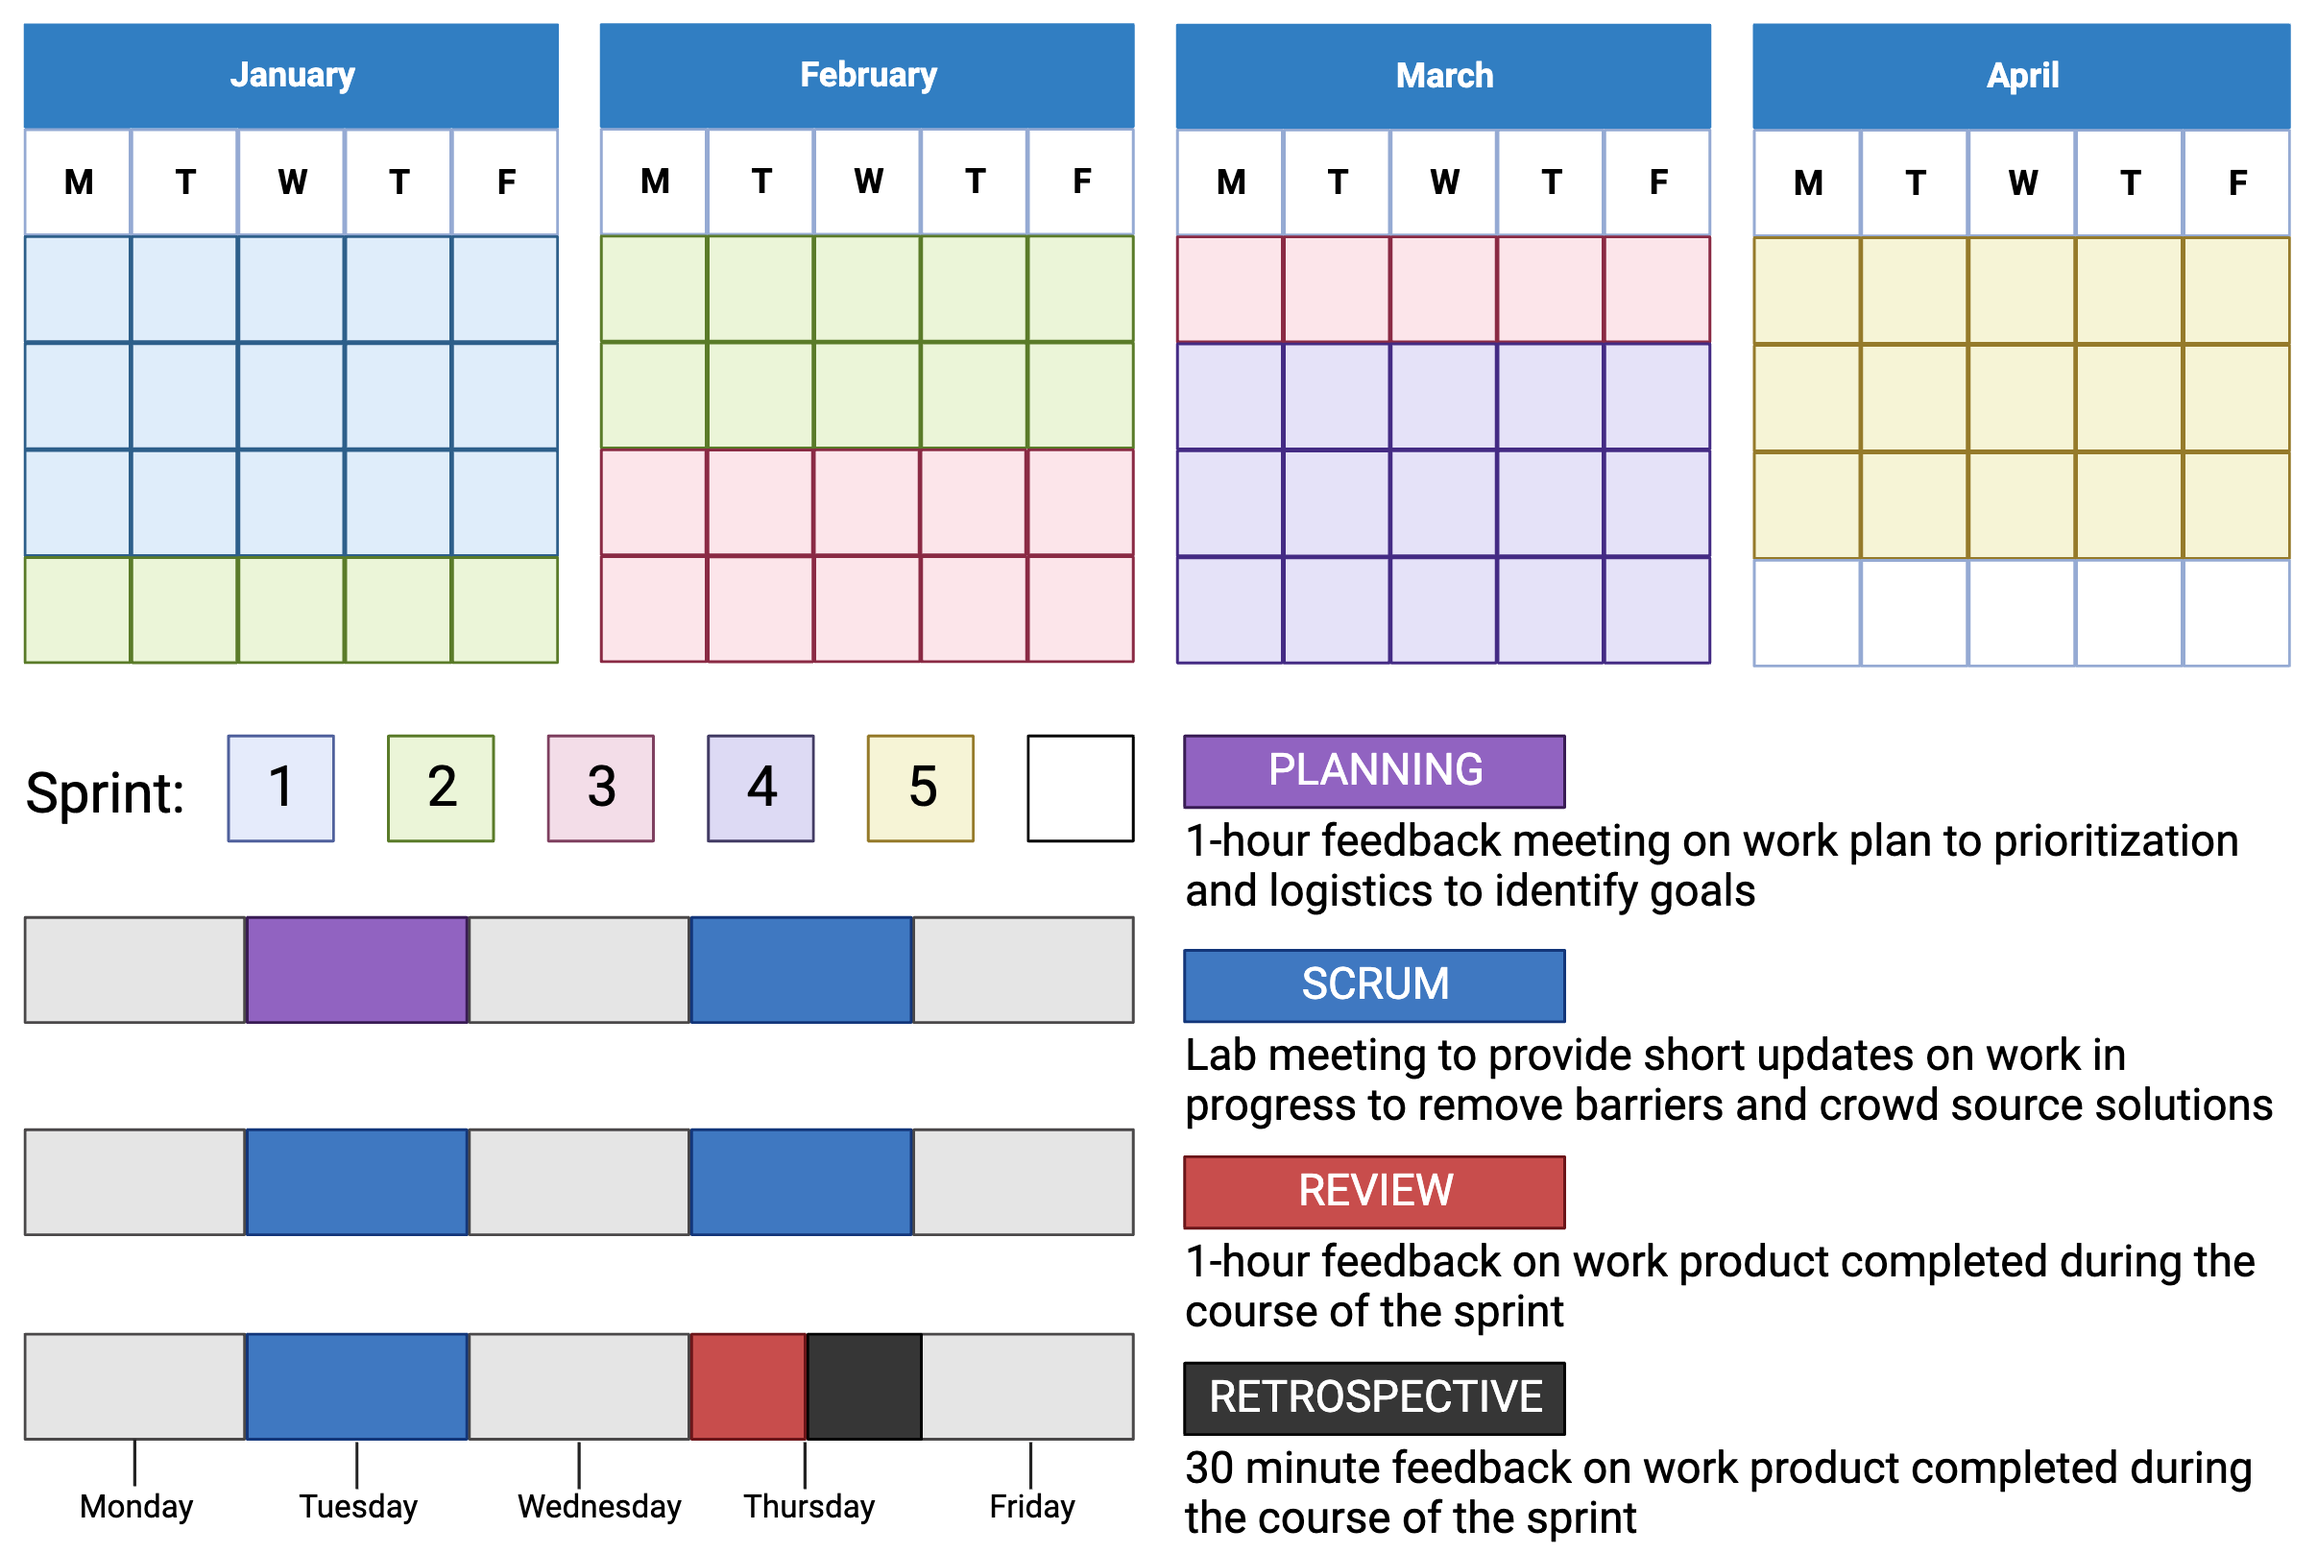
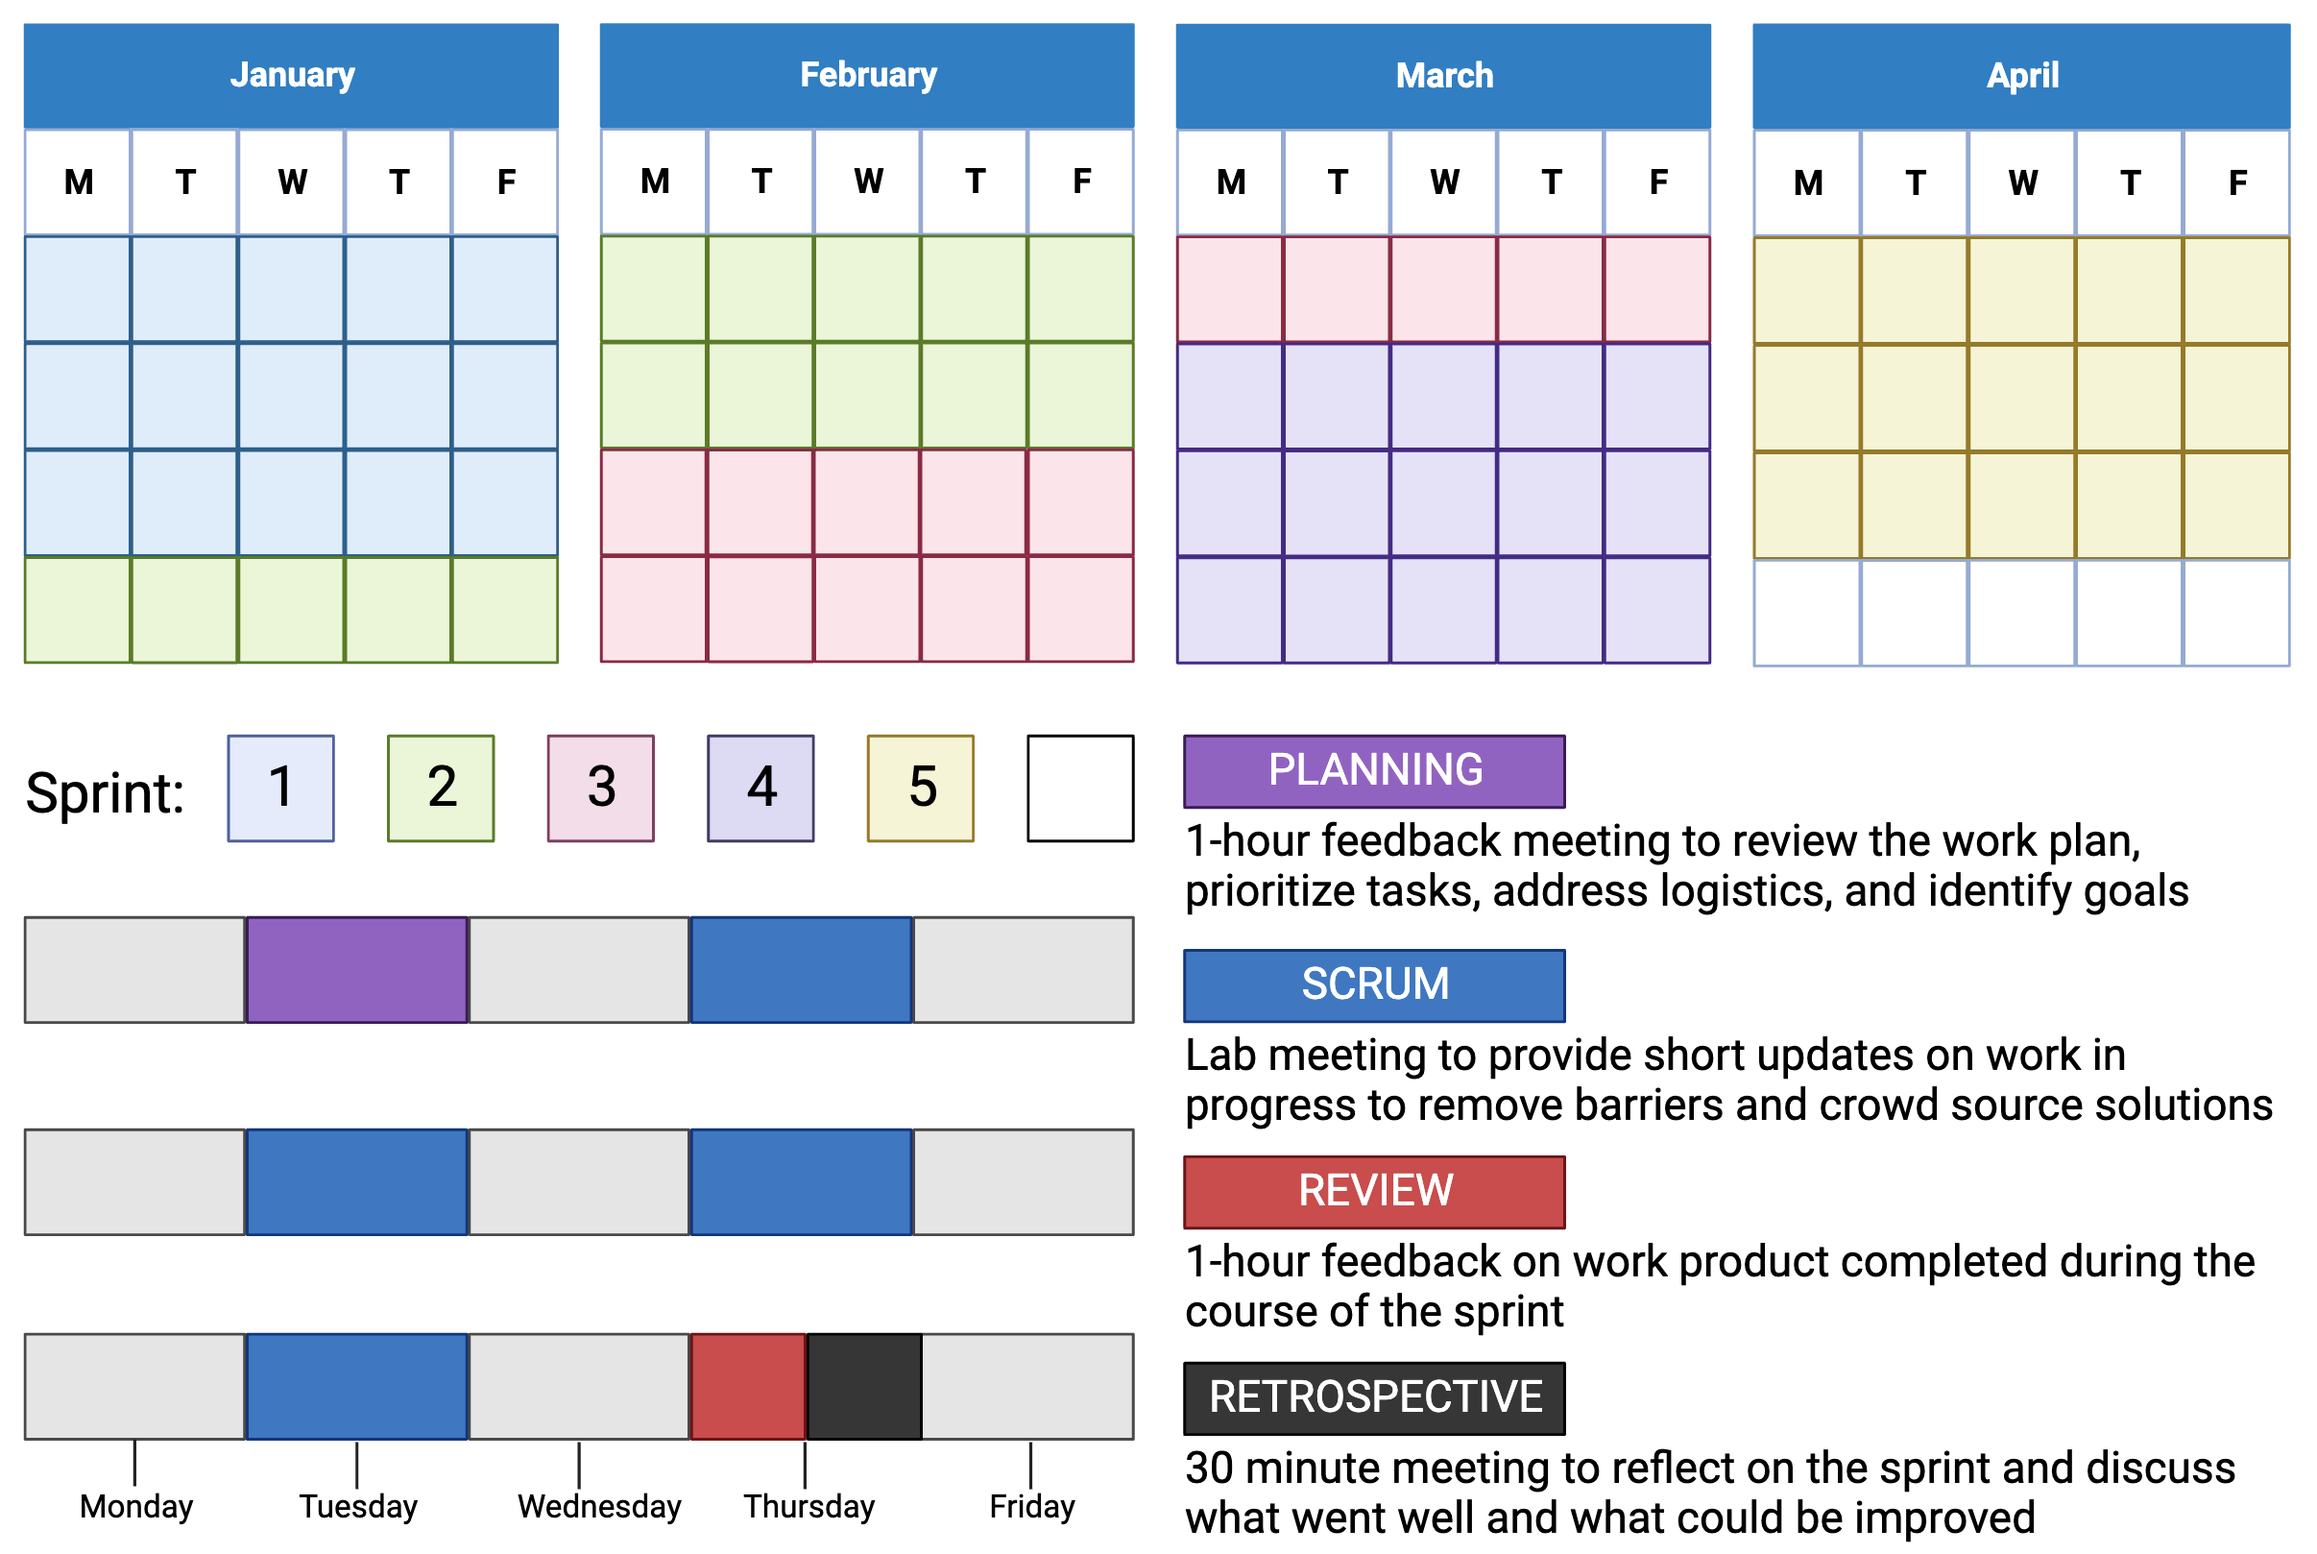
LabScrum sprint cycle

Changed region(s): [[0.4973, 0.9271, 0.9635, 0.9889], [0.4973, 0.5253, 0.9635, 0.5871]]

diff --git a/docs/scripts/labscrum.html b/docs/scripts/labscrum.html
@@ -212,7 +212,14 @@ ul.task-list li input[type="checkbox"] {
     <h2 id="toc-title">Table of contents</h2>
    
   <ul>
-  <li><a href="#references" id="toc-references" class="nav-link active" data-scroll-target="#references">References</a></li>
+  <li><a href="#labscrum-sprint-cycle" id="toc-labscrum-sprint-cycle" class="nav-link active" data-scroll-target="#labscrum-sprint-cycle">LabScrum sprint cycle</a>
+  <ul class="collapse">
+  <li><a href="#sprint-planning" id="toc-sprint-planning" class="nav-link" data-scroll-target="#sprint-planning">Sprint Planning</a></li>
+  <li><a href="#scrum-meetings" id="toc-scrum-meetings" class="nav-link" data-scroll-target="#scrum-meetings">Scrum meetings</a></li>
+  <li><a href="#sprint-review" id="toc-sprint-review" class="nav-link" data-scroll-target="#sprint-review">Sprint Review</a></li>
+  <li><a href="#sprint-retrospective" id="toc-sprint-retrospective" class="nav-link" data-scroll-target="#sprint-retrospective">Sprint Retrospective</a></li>
+  </ul></li>
+  <li><a href="#further-reading" id="toc-further-reading" class="nav-link" data-scroll-target="#further-reading">Further reading</a></li>
   </ul>
 </nav>
     </div>
@@ -236,20 +243,80 @@ ul.task-list li input[type="checkbox"] {
 
 </header>
 
+<p>LabScrum adapts the Scrum framework from software development for research laboratories. It applies agile principles to scientific research to improve collaboration and streamline workflows. Research projects are divided into “sprints” with regular communication through stand-ups and retrospectives. This approach helps teams adapt to changes and work efficiently.</p>
+<section id="labscrum-sprint-cycle" class="level2">
+<h2 class="anchored" data-anchor-id="labscrum-sprint-cycle">LabScrum sprint cycle</h2>
+<p>Our LabSrum framework is as follows. Every quarter, we identify key milestones. These encompass tasks with firm deadlines like grant applications, progress reports, conference abstracts, and presentations, as well as those with flexible deadlines, such as paper submissions. The quarter is divided into five sprints, each spanning three weeks, with an additional free week. Each sprint involves a planning meeting, four scrum meetings, a review, and a retrospective. Meetings are scheduled on Tuesdays and Thursdays.</p>
 <div class="quarto-figure quarto-figure-center">
 <figure class="figure">
 <p><img src="../images/LabScrum.png" class="img-fluid figure-img"></p>
-<figcaption class="figure-caption">LabScrum</figcaption>
+<figcaption class="figure-caption">LabScrum Outline</figcaption>
 </figure>
 </div>
-<section id="references" class="level2">
-<h2 class="anchored" data-anchor-id="references">References</h2>
+<div class="callout callout-style-default callout-note callout-titled">
+<div class="callout-header d-flex align-content-center">
+<div class="callout-icon-container">
+<i class="callout-icon"></i>
+</div>
+<div class="callout-title-container flex-fill">
+Note
+</div>
+</div>
+<div class="callout-body-container callout-body">
+<p>This is our initial attempt at implementing LabScrum for project management, and we anticipate making revisions to better suit the lab’s needs</p>
+</div>
+</div>
+<section id="sprint-planning" class="level3">
+<h3 class="anchored" data-anchor-id="sprint-planning">Sprint Planning</h3>
+<p>The objective of the planning meeting is to establish concrete, measurable sprint goals for each team member. Every member should arrive at the meeting with a preliminary sprint plan detailing their overarching goals and the associated subtasks to be accomplished by the sprint’s conclusion. This plan is then adjusted based on feedback regarding prioritization and logistics. The sprint goals should align with upcoming quarterly milestones, ensuring they contribute to the lab’s long-term research objectives. Employing SMART goals ensures the sprint goals are feasible within the sprint’s timeframe.</p>
+<div class="callout callout-style-default callout-tip callout-titled">
+<div class="callout-header d-flex align-content-center">
+<div class="callout-icon-container">
+<i class="callout-icon"></i>
+</div>
+<div class="callout-title-container flex-fill">
+Tip
+</div>
+</div>
+<div class="callout-body-container callout-body">
+<p><a href="https://www.atlassian.com/blog/productivity/how-to-write-smart-goals">SMART Goals</a> are <strong>S</strong>pecific <strong>M</strong>easurable <strong>A</strong>chievable <strong>R</strong>elevant <strong>T</strong>ime-Bound.</p>
+<p>An example of a SMART-goal statement might look like this: Our goal is to [quantifiable objective] by [timeframe or deadline]. [Key players or teams] will accomplish this goal by [what steps you’ll take to achieve the goal]. Accomplishing this goal will [result or benefit].</p>
+</div>
+</div>
+</section>
+<section id="scrum-meetings" class="level3">
+<h3 class="anchored" data-anchor-id="scrum-meetings">Scrum meetings</h3>
+<p>Scrum meetings offer brief updates on each team member’s progress. They aim to collectively identify solutions to challenges and pinpoint colleagues who might help. While solutions might become evident during the scrum itself, sometimes a separate discussion with colleagues afterward is necessary. The format for updates isn’t rigid; it can be slides, a verbal summary, or even raw code. However, each update should tackle these three key questions:</p>
+<ol type="1">
+<li>What tasks have you completed since our last meeting?</li>
+<li>What will you focus on next?</li>
+<li>Are there any obstacles hindering your progress?</li>
+</ol>
+</section>
+<section id="sprint-review" class="level3">
+<h3 class="anchored" data-anchor-id="sprint-review">Sprint Review</h3>
+<p>Upon concluding the sprint, we present the accomplishments of each team member and assess the progress against their initially set sprint goals. This presentation will utilize a slide deck format. It serves as a platform to receive in-depth feedback on the completed tasks, pinpoint challenges faced, prioritize upcoming tasks, and establish new objectives informed by the review and feedback.</p>
+</section>
+<section id="sprint-retrospective" class="level3">
+<h3 class="anchored" data-anchor-id="sprint-retrospective">Sprint Retrospective</h3>
+<p>The Sprint Retrospective is held after the sprint review to reflect on the past sprint and identify opportunities to enhance the effectiveness and enjoyment of future sprints. The goal is to foster a culture of continuous learning. By consistently evaluating our methods and results, we ensure that we’re continually adapting and evolving based on real-world feedback and experience. The key questions to address are:</p>
+<ol type="1">
+<li>What went well in the last sprint?</li>
+<li>What could be improved?</li>
+<li>What will we commit to improving in the next sprint?</li>
+</ol>
+<p>Beyond these central questions, the retrospective also serves as a venue to discuss any issues related to team dynamics, communication, or collaboration. It’s also a moment to recognize and appreciate the hard work and contributions of team members. It’s important to celebrate successes, both big and small!</p>
+</section>
+</section>
+<section id="further-reading" class="level2">
+<h2 class="anchored" data-anchor-id="further-reading">Further reading</h2>
 <ol type="1">
 <li>May. 2019. <a href="https://labscrum.org/labscrum-guide">LabScrum Guide</a></li>
 <li>Pirro. 2019. <a href="https://www.nature.com/articles/d41586-019-01184-9">How agile project management can work for your research</a>. Nature.</li>
-<li>Adam. 2019. <a href="https://www.nature.com/articles/d41586-019-02620-6">A project-management tool from the tech industry could benefit your lab</a></li>
+<li>Adam. 2019. <a href="https://www.nature.com/articles/d41586-019-02620-6">A project-management tool from the tech industry could benefit your lab</a>. Nature.</li>
 <li>Brauer. 2021. <a href="https://arxiv.org/abs/2103.16574">“I’ll Finish It This Week” And Other Lies</a>. arxiv.</li>
 </ol>
+<p>Finally, watch the <a href="https://youtu.be/mcs-KJyfQ84">YouTube video</a> from our lab meeting where we initially discuss LabScrum for project management.</p>
 
 
 </section>
